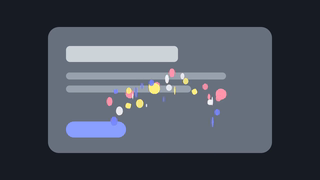
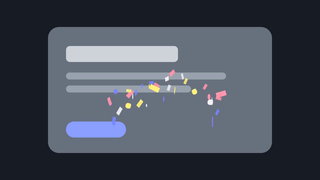
fix(engine): clear the rotate fill of turning confetti and glint pieces

diff --git a/packages/ffmpeg-video-composer/tests/fx-rotate-trails.test.ts b/packages/ffmpeg-video-composer/tests/fx-rotate-trails.test.ts
@@ -1,0 +1,150 @@
+import { execFileSync } from 'node:child_process';
+import fs from 'node:fs';
+import path from 'node:path';
+import { describe, expect, it } from 'vitest';
+import type { Filter, FilterGraphChain, Section } from '@/core/types';
+import { lowerFx } from '@/editor/presets/fx';
+import { parseSpriteUrl, spritePng, type SpriteSpec } from '@/editor/presets/fx-sprites';
+import type { SugarContext } from '@/editor/presets/sugar-context';
+import type { FxGraphic } from '@/schemas/fx.schemas';
+import { testBuildDir } from './fixtures/build-dir';
+
+// A `rotate` with `c=none` draws nothing outside the turned picture, so FFmpeg's frame pool hands back
+// buffers that still hold earlier frames there: a piece turning over time leaves a smear of its previous
+// angles (trails). Rotation preserves a sprite's total alpha, so a branch whose alpha keeps growing after
+// the turn is drawing stale pixels. Each rotating branch of confetti and glint goes through real FFmpeg up to
+// its rotate, and its alpha mass per frame is compared with the sprite's own (it must neither exceed it nor drift).
+
+const FPS = 30;
+const dir = testBuildDir('fx-rotate-trails');
+
+function hasFfmpeg(): boolean {
+  try {
+    execFileSync('ffmpeg', ['-hide_banner', '-filters'], { stdio: 'pipe' });
+
+    return true;
+  } catch {
+    return false;
+  }
+}
+
+function lowered(graphic: Partial<FxGraphic>): { chains: FilterGraphChain[]; sprites: Map<string, SpriteSpec> } {
+  const sprites = new Map<string, SpriteSpec>();
+  const ctx: SugarContext = {
+    duration: 3,
+    scale: '640:360',
+    fps: FPS,
+    isVideo: false,
+    motion: { energy: 1, seedFor: () => 3, resolveText: () => '' },
+    masks: {
+      available: true,
+      input: (key, source) => {
+        sprites.set(`input:${key}`, parseSpriteUrl('url' in source ? source.url : '') as SpriteSpec);
+
+        return `input:${key}`;
+      },
+      color: (color) => color,
+      warn: (message) => {
+        throw new Error(message);
+      },
+      has: () => true,
+    },
+  };
+  const g = { type: 'fx', target: { x: 220, y: 120, w: 200, h: 120 }, ...graphic } as FxGraphic;
+  const section = { name: 's', type: 'color_background', graphics: [g] } as unknown as Section;
+  const filters = lowerFx({ graphic: g, at: 0.2, until: undefined, seed: 5, index: 0, section, ctx });
+
+  return { chains: filters.flatMap((filter) => filter.graph ?? []), sprites };
+}
+
+function text(filter: Filter): string {
+  return filter.value === undefined ? filter.type : `${filter.type}=${String(filter.value)}`;
+}
+
+/** The sprite feeding a branch label, through the stream chain that split it. */
+function spriteOf(chains: FilterGraphChain[], label: string, sprites: Map<string, SpriteSpec>): SpriteSpec {
+  const stream = chains.find((chain) => chain.outputs?.includes(label));
+
+  return sprites.get(stream?.inputs?.[0] ?? '') as SpriteSpec;
+}
+
+/** Sum of the alpha plane of every rgba frame. */
+function alphaMass(raw: Buffer, w: number, h: number): number[] {
+  const size = w * h * 4;
+
+  return Array.from({ length: raw.length / size }, (_, i) => {
+    let sum = 0;
+
+    for (let k = i * size + 3; k < (i + 1) * size; k += 4) sum += raw[k];
+
+    return sum;
+  });
+}
+
+function rotatedMass(name: string, spec: SpriteSpec, filters: Filter[]): { frames: number[]; sprite: number } {
+  const file = path.join(dir, `${name}.png`);
+  const upTo = filters.slice(0, filters.findIndex((filter) => filter.type === 'rotate') + 1);
+  const turn = /ow=(\d+):oh=(\d+)/.exec(String(upTo.at(-1)?.value ?? ''));
+  const [w, h] = turn ? [Number(turn[1]), Number(turn[2])] : [spec.w, spec.h];
+  const prep = `format=rgba,fps=${FPS},${upTo
+    .filter((f) => f.type !== 'fade')
+    .map(text)
+    .join(',')}`;
+
+  fs.writeFileSync(file, spritePng(spec));
+
+  const raw = execFileSync(
+    'ffmpeg',
+    ['-v', 'error', '-loop', '1', '-i', file, '-vf', prep, '-t', '3', '-f', 'rawvideo', '-pix_fmt', 'rgba', '-'],
+    {
+      maxBuffer: 1 << 28,
+    }
+  );
+  const still = execFileSync('ffmpeg', [
+    '-v',
+    'error',
+    '-i',
+    file,
+    '-frames:v',
+    '1',
+    '-f',
+    'rawvideo',
+    '-pix_fmt',
+    'rgba',
+    '-',
+  ]);
+
+  return { frames: alphaMass(raw, w, h), sprite: alphaMass(still, spec.w, spec.h)[0] };
+}
+
+const CASES: Record<string, Partial<FxGraphic>> = {
+  confetti: { effect: 'confetti', count: 4, colors: ['#F96F99'], spin: 3, size: 64 },
+  glint: { effect: 'glint', points: [{ x: 0.5, y: 0.5 }], spin: 90, size: 64 },
+};
+
+describe.skipIf(!hasFfmpeg())('fx rotate leaves no trails', () => {
+  for (const [name, graphic] of Object.entries(CASES)) {
+    it(`${name}: a turning piece keeps its own alpha mass on every frame`, () => {
+      fs.mkdirSync(dir, { recursive: true });
+
+      const { chains, sprites } = lowered(graphic);
+      const turning = chains.filter((chain) => chain.filters.some((filter) => filter.type === 'rotate'));
+
+      expect(turning.length, name).toBeGreaterThan(0);
+
+      for (const [i, chain] of turning.slice(0, 2).entries()) {
+        const spec = spriteOf(chains, chain.inputs?.[0] ?? '', sprites);
+        const { frames, sprite } = rotatedMass(`${name}-${i}`, spec, chain.filters);
+
+        expect(frames.length, name).toBeGreaterThan(10);
+
+        // Bilinear edges add 10–25 % on a small sprite; stale pixels add up to the whole turn square (2× here).
+        for (const [n, mass] of frames.entries()) {
+          expect(mass / sprite, `${name} branch ${i} frame ${n}`).toBeLessThan(1.35);
+        }
+
+        expect((Math.max(...frames) - Math.min(...frames)) / sprite, `${name} branch ${i} drift`).toBeLessThan(0.05);
+      }
+    }, 60000);
+  }
+});

diff --git a/packages/ffmpeg-video-composer/src/editor/presets/fx-confetti.ts b/packages/ffmpeg-video-composer/src/editor/presets/fx-confetti.ts
@@ -154,13 +154,25 @@ function turnSide(spec: SpriteSpec): number {
   return even(Math.hypot(spec.w, spec.h) + 2);
 }
 
+// The fill of a turn: the piece's own colour, fully transparent. `c=none` leaves whatever the frame pool's
+// buffer held outside the turned piece (its earlier angles: trails); a colour at alpha 0 clears it, and
+// keeping the RGB of the piece keeps the scale after it from pulling a dark fringe into the edge.
+function clear(piece: Piece): string {
+  return `0x${piece.sprite.slice(1)}@0`;
+}
+
 function motionFilters(fx: Ctx, piece: Piece, side: number): Filter[] {
   const T = `(t-${fmt(piece.t0)})`;
   const fade = Math.min(fx.graphic.fade ?? 0.5, fx.duration / 2);
   const end = piece.t0 + fx.duration;
   const squash = `${fmt(piece.scale)}*max(0.18,abs(cos(${fmt(piece.flutter)}*${T}+${fmt(piece.flip)})))`;
   const turn: Filter[] = fx.has('rotate')
-    ? [{ type: 'rotate', value: `a='${fmt(piece.angle)}+${fmt(piece.spin)}*${T}':c=none:ow=${side}:oh=${side}` }]
+    ? [
+        {
+          type: 'rotate',
+          value: `a='${fmt(piece.angle)}+${fmt(piece.spin)}*${T}':c=${clear(piece)}:ow=${side}:oh=${side}`,
+        },
+      ]
     : [];
 
   return [
@@ -178,7 +190,7 @@ function stillFilters(fx: Ctx, piece: Piece, side: number): Filter[] {
   const half = (fx.end - fx.at) / 2;
   const size = even(side * piece.scale);
   const turn: Filter[] = fx.has('rotate')
-    ? [{ type: 'rotate', value: `a=${fmt(piece.angle)}:c=none:ow=${side}:oh=${side}` }]
+    ? [{ type: 'rotate', value: `a=${fmt(piece.angle)}:c=${clear(piece)}:ow=${side}:oh=${side}` }]
     : [];
 
   return [

diff --git a/packages/ffmpeg-video-composer/src/editor/presets/fx-glint.ts b/packages/ffmpeg-video-composer/src/editor/presets/fx-glint.ts
@@ -102,9 +102,15 @@ function twinkle(fx: Ctx, star: Star): string {
 function starFilters(fx: Ctx, plan: GlintPlan, star: Star): Filter[] {
   const spin = ((fx.graphic.spin ?? 15) * Math.PI) / 180;
   const ramp = Math.min(rampOf(fx), star.life / 4);
+  // Filled with the star colour at alpha 0, never `c=none` (stale pixels around a moving angle: fx-confetti).
   const turn: Filter[] =
     spin !== 0 && fx.has('rotate')
-      ? [{ type: 'rotate', value: `a='${fmt(spin)}*clip((t-${fmt(star.start)})/${fmt(star.life)},0,1)':c=none` }]
+      ? [
+          {
+            type: 'rotate',
+            value: `a='${fmt(spin)}*clip((t-${fmt(star.start)})/${fmt(star.life)},0,1)':c=0x${plan.spec.color ?? 'ffffff'}@0`,
+          },
+        ]
       : [];
 
   return [

diff --git a/packages/ffmpeg-video-composer/tests/fx-celebrate.test.ts b/packages/ffmpeg-video-composer/tests/fx-celebrate.test.ts
@@ -225,7 +225,7 @@ describe('fx confetti', () => {
   it('tumbles and flutters every piece and follows a ballistic path', () => {
     const { text } = lower({ effect: 'confetti', count: 6, colors: ['#FF0000'] });
 
-    expect(count(text, /rotate=a='[\d.-]+\+-?[\d.]+\*\(t-0\.4\)':c=none/g)).toBe(6);
+    expect(count(text, /rotate=a='[\d.-]+\+-?[\d.]+\*\(t-0\.4\)':c=0xff0000@0:/g)).toBe(6);
     expect(count(text, /abs\(cos\(/g)).toBe(6);
     expect(text).toMatch(/exp\(-[\d.]+\*\(t-0\.4\)\)/);
     expect(text).toContain('fade=t=in:st=0.4:d=0.133333:alpha=1');

diff --git a/packages/ffmpeg-video-composer/CHANGELOG.md b/packages/ffmpeg-video-composer/CHANGELOG.md
@@ -44,6 +44,11 @@ and this project adheres to [Semantic Versioning](https://semver.org/spec/v2.0.0
   `global` in the code to `globalThis`, locals and object keys included, so resolving a theme walked
   `globalThis`; only the free identifier is rewritten now. Error messages no longer read `globalThis.beats`.
 
+- fx `confetti` and `glint`: a turning piece no longer leaves trails. Their `rotate` filled the corners of the
+  turned sprite with `c=none`, which leaves whatever FFmpeg's frame pool last held there, so each piece
+  smeared its earlier angles and a paper strip read as a filled square. The corners are now cleared with the
+  piece's own colour at alpha 0, which also keeps the scale after the turn from pulling in a dark fringe.
+
 ## [3.1.0] - 2026-10-11
 
 ### Added
